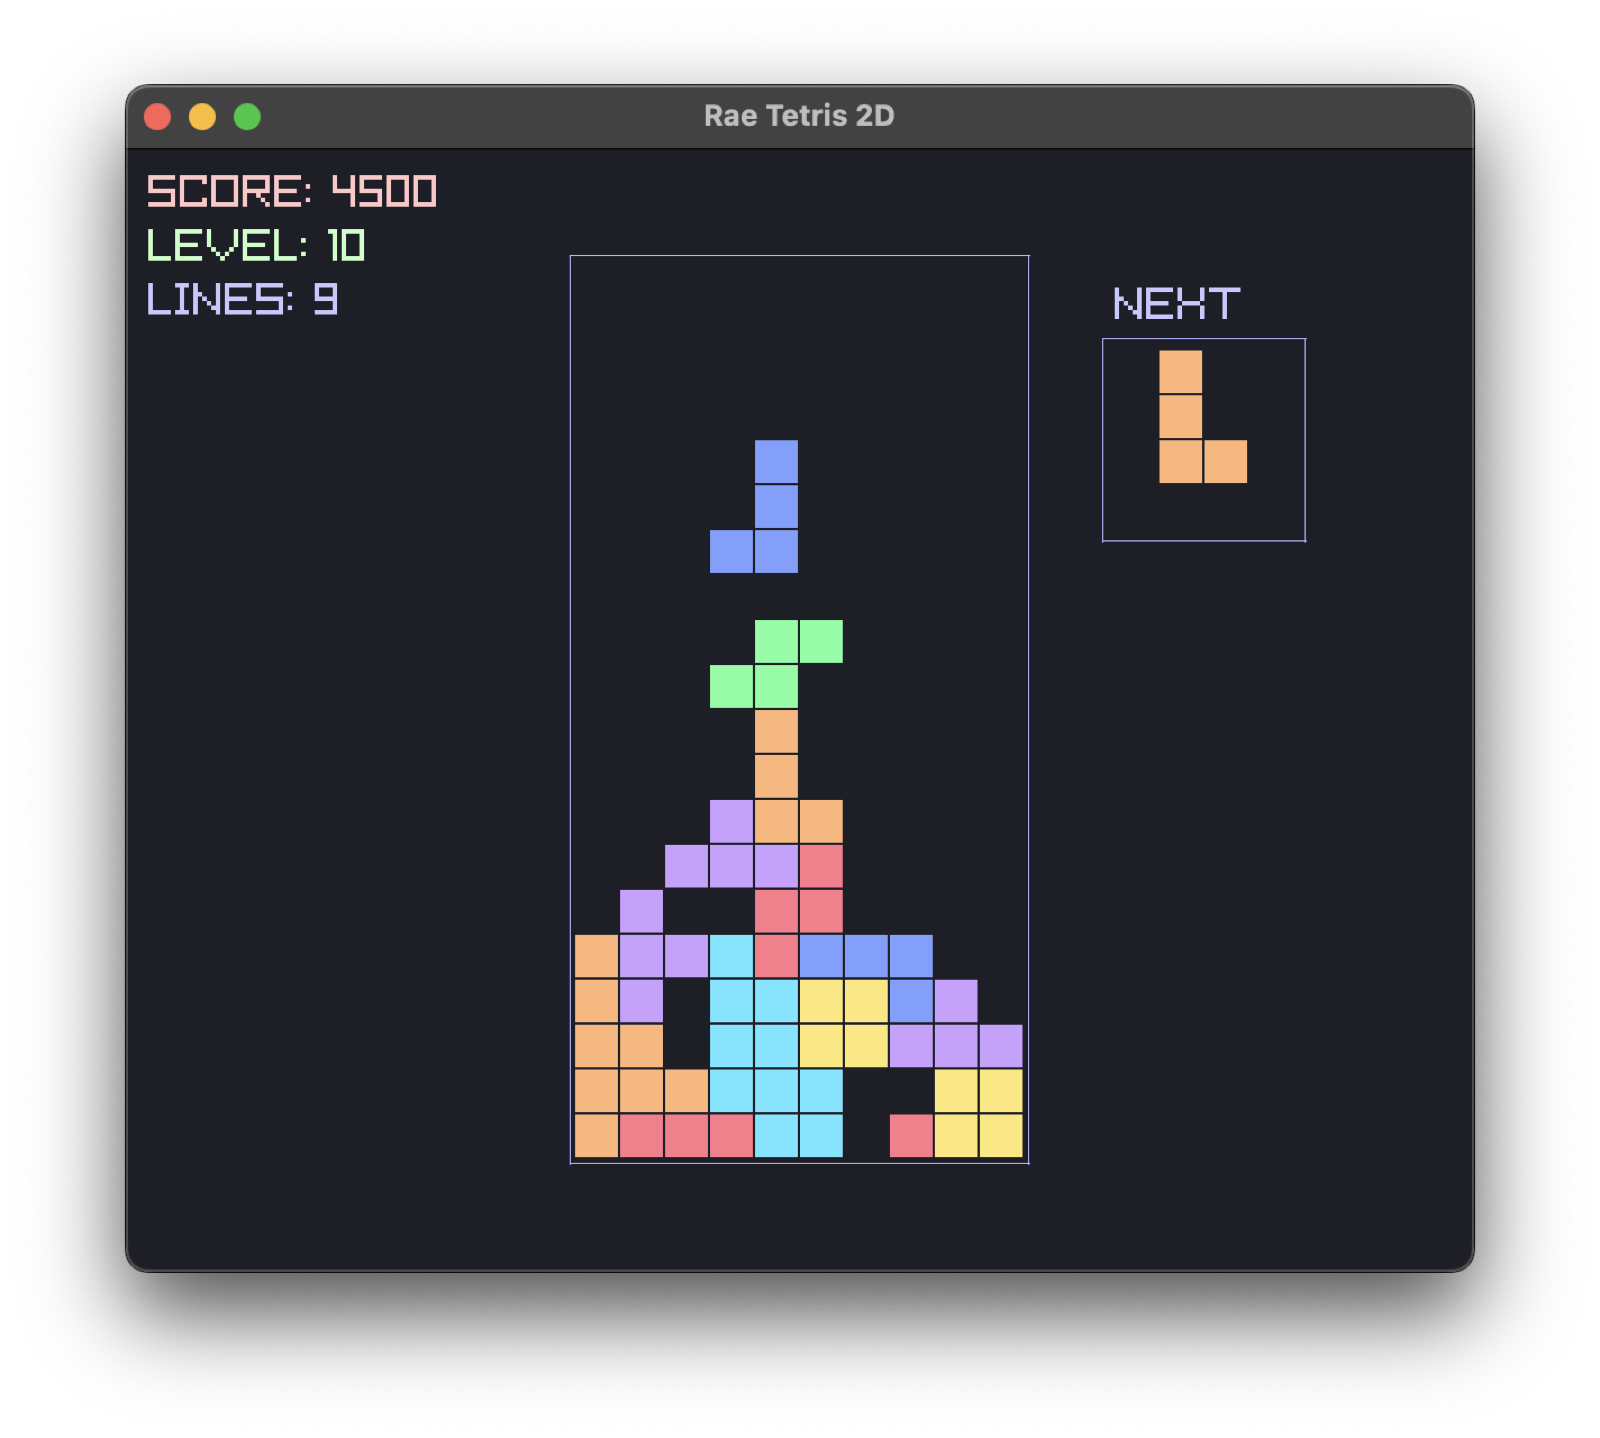
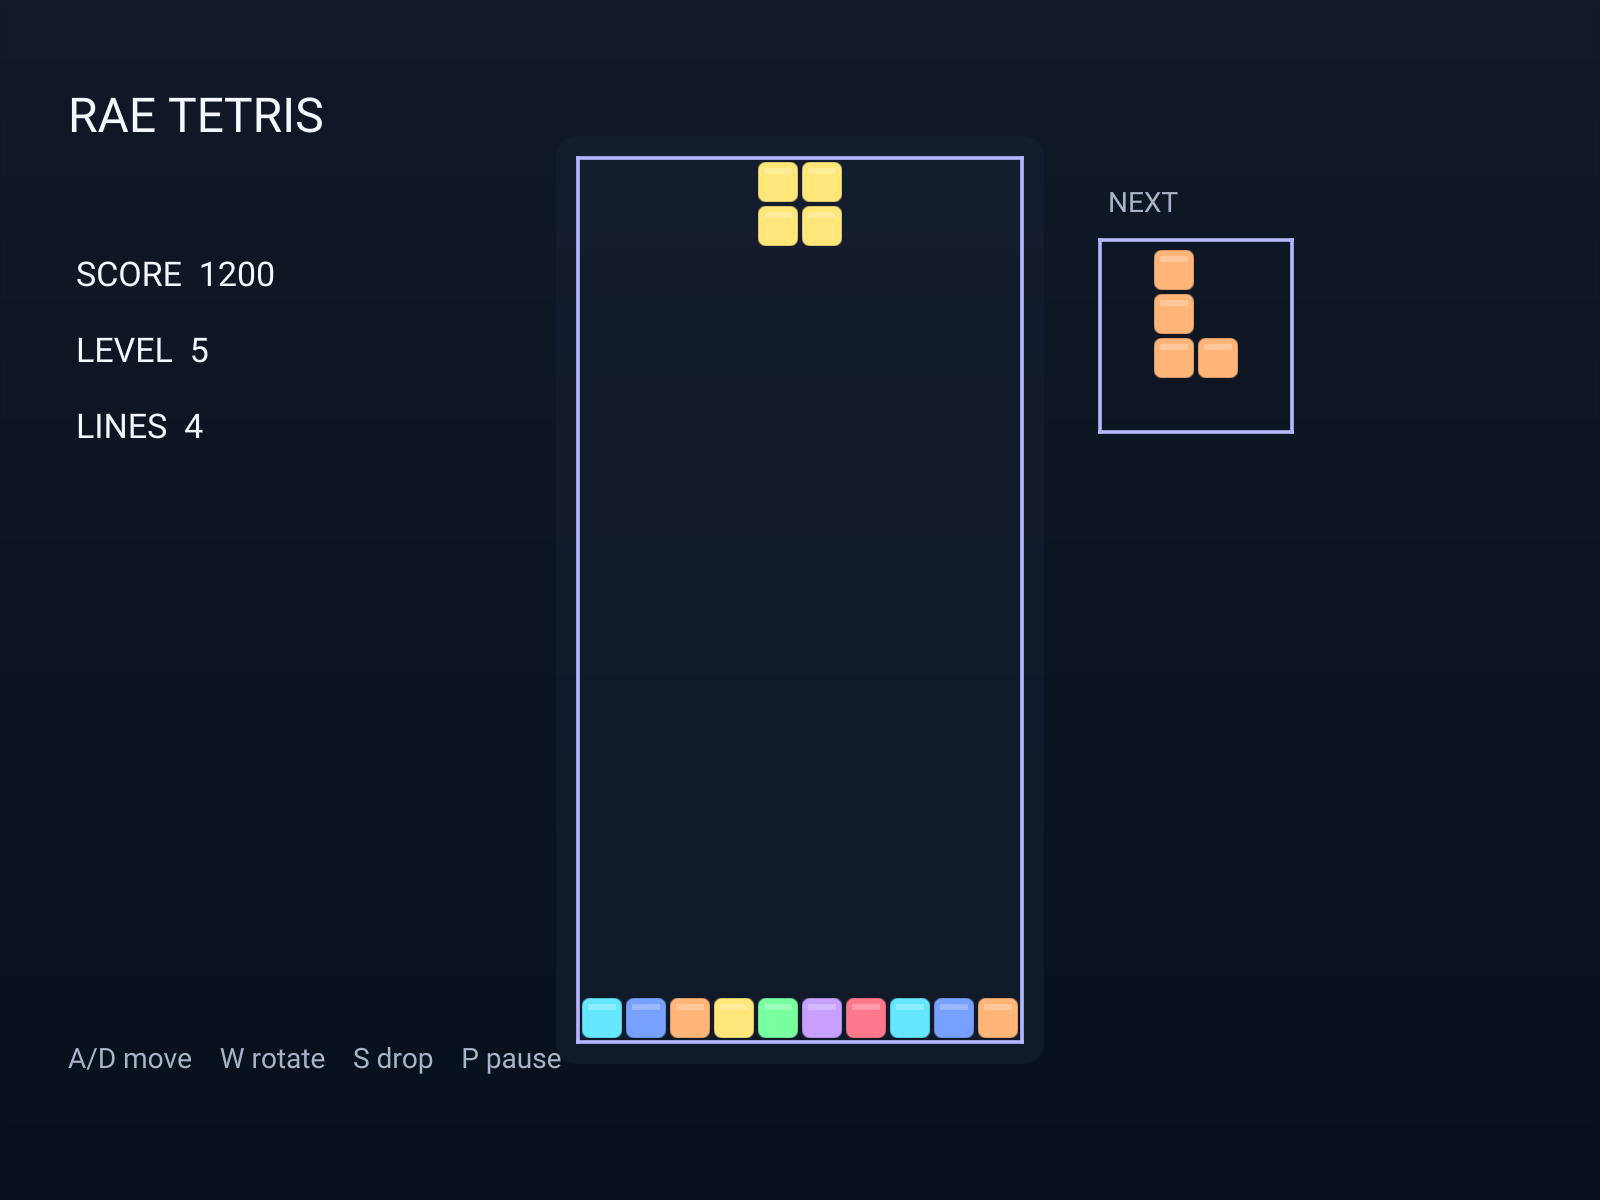
Retire Raylib from active builds

diff --git a/tools/devtools-web/src/server/config.ts b/tools/devtools-web/src/server/config.ts
@@ -73,13 +73,9 @@ const DEFAULT_TARGETS: TargetConfig[] = [
     buildCommand: "cd compiler && make",
     cleanCommand: "cd compiler && make clean",
     rebuildCommand: "cd compiler && make clean && make",
-    // Link raylib STATICALLY (libraylib.a, not -lraylib) so the
-    // bundled GLFW symbols (glfwWaitEventsTimeout etc., used by the
-    // event-driven UI loop in lib/ui/event_loop.rae) are present in
-    // the final binary. The shared library libraylib.dylib does NOT
-    // export those symbols. Same fix as compiler/Makefile and
-    // compiler/src/main.c.
-    exampleRunCommand: "./compiler/bin/rae build --target compiled --project {{ENTRY_DIR}} --emit-c --out {{OUTDIR}}/out.c {{ENTRY}} && gcc {{OPT}} -o {{OUTDIR}}/app {{OUTDIR}}/out.c {{OUTDIR}}/rae_runtime.c third_party/raylib/rae_raylib.c -I{{OUTDIR}} -Ithird_party/raylib -I/opt/homebrew/include /opt/homebrew/lib/libraylib.a -framework CoreVideo -framework IOKit -framework Cocoa -framework OpenGL && {{OUTDIR}}/app",
+    // The compiler discovers SDL3/WebGPU imports and links only the backends
+    // the example uses. Raylib is legacy-only and is not part of this path.
+    exampleRunCommand: "./compiler/bin/rae run --target compiled --profile release --project {{ENTRY_DIR}} {{ENTRY}}",
     // `rae watch --target compiled`: supervisor builds each
     // rebuild into a fresh `.rae/build/build-N/` directory, swaps
     // binaries on successful build, falls back to the previous
@@ -112,8 +108,8 @@ const DEFAULT_TARGETS: TargetConfig[] = [
     // Build the example to .wasm via the C backend + wasi-sdk, then run it
     // under a Node WASI shim that echoes the program's stdout (text examples)
     // or summarizes binary output (e.g. the raytracer framebuffer). Needs
-    // wasi-sdk (WASI_SDK, default ~/.local/wasi-sdk). Only headless examples
-    // work — raylib/windowed examples can't link to wasm.
+    // wasi-sdk (WASI_SDK, default ~/.local/wasi-sdk). Browser WebGPU examples
+    // use the separate Emscripten path rather than this headless WASI target.
     exampleRunCommand: "compiler/tools/wasm_build.sh {{ENTRY_DIR}} {{ENTRY}} {{OUTDIR}}/app.wasm && node compiler/tools/wasm_run.mjs --echo {{OUTDIR}}/app.wasm",
     exampleBuildCommand: "compiler/tools/wasm_build.sh {{ENTRY_DIR}} {{ENTRY}} {{OUTDIR}}/app.wasm"
   }

diff --git a/compiler/src/main.c b/compiler/src/main.c
@@ -2614,9 +2614,8 @@ static int run_vm_file(const RunOptions* run_opts, const char* project_root) {
 
 // Invoke GCC to link a Rae-generated `.c` (produced by build_c_backend_output)
 // into a runnable binary. Picks up companion `.c` files next to the entry
-// `.rae` (excluding the runtime + previous compiled outputs), and links
-// raylib statically so the GLFW symbols bundled in libraylib.a are
-// resolvable.
+// `.rae` (excluding the runtime + previous compiled outputs). Legacy Raylib
+// is linked only when dependency discovery found an explicit Raylib import.
 //
 // Shared by `rae run --target compiled` and `rae watch`. Returns true on
 // success; on failure, prints to stderr and returns false. The caller owns
@@ -2638,7 +2637,9 @@ static bool gcc_link_c_to_binary(const char* entry_rae_file,
   char runtime_dir[PATH_MAX];
   snprintf(runtime_dir, sizeof(runtime_dir), "%s", RAE_RUNTIME_SOURCE_DIR);
 
-  const char* raylib_define = uses_raylib ? "-DRAE_HAS_RAYLIB" : "";
+  const char* raylib_flags = uses_raylib
+      ? "-DRAE_HAS_RAYLIB /opt/homebrew/lib/libraylib.a -framework CoreVideo -framework IOKit -framework Cocoa -framework OpenGL"
+      : "";
   // SDL3 (lib/sdl3.rae): define the runtime block + link libSDL3 only when the
   // program imports it (brew-installed at /opt/homebrew, not toolchain-bundled).
   const char* sdl3_flags = uses_sdl3 ? "-DRAE_HAS_SDL3 -lSDL3" : "";
@@ -2689,8 +2690,9 @@ static bool gcc_link_c_to_binary(const char* entry_rae_file,
   }
 
   char cmd[PATH_MAX * 4];
-  snprintf(cmd, sizeof(cmd), "gcc -std=c11 %s -w %s %s %s -I%s -I/opt/homebrew/include -L/opt/homebrew/lib /opt/homebrew/lib/libraylib.a -framework CoreVideo -framework IOKit -framework Cocoa -framework OpenGL -framework ImageIO -framework CoreGraphics %s %s/rae_runtime.c%s -o %s",
-           opt_flags, raylib_define, sdl3_flags, wgpu_flags, runtime_dir, c_path, runtime_dir, extra_c_files, out_bin);
+  snprintf(cmd, sizeof(cmd), "gcc -std=c11 %s -w %s %s %s -I%s -I/opt/homebrew/include -L/opt/homebrew/lib -framework Foundation -framework ImageIO -framework CoreGraphics %s %s/rae_runtime.c%s -o %s",
+           opt_flags, raylib_flags, sdl3_flags, wgpu_flags, runtime_dir,
+           c_path, runtime_dir, extra_c_files, out_bin);
 
   if (system(cmd) != 0) {
     fprintf(stderr, "error: failed to compile C output\n");
@@ -3887,12 +3889,9 @@ static const char* RAE_INIT_TEMPLATE_MAIN_RAE =
   "  log(\"Hello, Rae!\")\n"
   "}\n";
 
-// Tabs in the recipe lines below are real \t — required by make.
-// The raylib link line is the same one royalblush-rae uses; it
-// works for raylib apps AND for plain-stdlib apps (rae_runtime.c
-// references Cocoa for App-Nap opt-out, so even a hello-world
-// would otherwise miss -framework Cocoa). Linking raylib too is
-// cheap: an unused libraylib.a costs nothing at runtime.
+// Tabs in the recipe lines below are real \t — required by make. The generated
+// starter is dependency-light; apps add SDL3/WebGPU flags when they import
+// those platform modules.
 static const char* RAE_INIT_TEMPLATE_MAKEFILE =
   "# Generated by `rae init`. Set RAE_REPO if the Rae monorepo lives\n"
   "# somewhere other than ../rae, e.g. `make RAE_REPO=/abs/path`.\n"
@@ -3910,11 +3909,9 @@ static const char* RAE_INIT_TEMPLATE_MAKEFILE =
   "RUNTIME_C:= $(BUILD)/rae_runtime.c\n"
   "BIN      := $(BUILD)/app\n"
   "\n"
-  "RAYLIB_A := /opt/homebrew/lib/libraylib.a\n"
-  "CFLAGS   := -O2 -I/opt/homebrew/include -DRAE_HAS_RAYLIB\n"
-  "LDFLAGS  := -L/opt/homebrew/lib $(RAYLIB_A) \\\n"
-  "            -framework CoreVideo -framework IOKit \\\n"
-  "            -framework Cocoa -framework OpenGL\n"
+  "CFLAGS   := -O2 -I/opt/homebrew/include\n"
+  "LDFLAGS  := -L/opt/homebrew/lib -framework Foundation \\\n"
+  "            -framework ImageIO -framework CoreGraphics\n"
   "\n"
   ".PHONY: help build run watch clean lib-link\n"
   "\n"

diff --git a/compiler/src/vm_raylib_stub.c b/compiler/src/vm_raylib_stub.c
@@ -1,0 +1,8 @@
+#include "vm_raylib.h"
+
+/* Live is deprecated; keep default native registration structurally intact
+ * without making the compiler binary depend on the legacy Raylib SDK. */
+bool vm_registry_register_raylib(VmRegistry* registry) {
+  (void)registry;
+  return true;
+}

diff --git a/QUEUE.md b/QUEUE.md
@@ -320,7 +320,7 @@
 - [ ] #417 FLAKY TEST 432_mobile_ui_leak_regression: it compares RSS growth over 5000 iterations against a flat 3 MB threshold, and lands close enough to it to fail intermittently — measured 2 passes and 1 failure in three consecutive clean runs, failing values 3872 KB and 4544 KB against passes under 3000 KB. It imports only core/string/sys, so this is allocator variance rather than a real regression, but a leak test that cries wolf one run in three trains everyone to ignore it. Options: measure the PLATEAU (growth between iteration 2500 and 5000, which is flat for allocator slack and linear for a real leak) instead of total growth from baseline, or take the median of a few samples. Prefer the plateau — it distinguishes the two shapes rather than just widening the tolerance.
 - [ ] #418 SKY FOR THE FORWARD RENDERER, so 111_metaballs_forward and 112_metaballs_deferred differ only in lighting path. Today the sky is deferred-only: the ~111 lines of sky WGSL (preetham/stylised/hosekChannel/skyHosek/skyColor) live inside the deferred LIGHTING pass and read seven fields off its LightU uniform — sunDir, sunColor, clearColor, skyParams, skyZenith, skyHorizon and hosek[9]. The forward path has no fullscreen pass at all, so this is a NEW pass, not a wiring change: extract that shader into a string both runtimes include, add a forward sky pass (pipeline + its own uniform + a fullscreen draw before the scene), and give Renderer3d a sky field with a tag the app dispatches, mirroring DeferredRenderer. THE RISK IS THE UNIFORM PACKING, which is #416's territory: LightU already carries viewProj purely so the sky fields land at the right offsets, and getting it wrong is silent — a sky coloured by whatever was in the matrix. Verify by byte-comparing a deferred screenshot before and after the extraction, so a shared shader cannot quietly change the path that already works.
 <!-- SUMU_QUEUE_END -->
-- [ ] #433 Investigate 491_wait_events_smoke: raylib InitWindow SIGSEGVs in rlglInit/rlLoadTexture on this machine (fails on a clean tree too, so it predates the sky work)
+- [ ] #433 SUPERSEDED by #483: `491_wait_events_smoke` exercised the retired Raylib path; archived Raylib code is non-gating and the default compiler no longer links it, so the initialization crash is intentionally not being debugged
 - [ ] #434 114's animTime accumulates unbounded in f32 and never wraps; after a long suspend (now integrated in full, since the dt clamp is gone) its ULP can exceed a frame's increment and the animation freezes
 - [x] #435 Browser WASM: the settings dialog fails to mount in 111 and 112 (log says "settings dialog failed to mount", panel renders empty); same in both, so it is a shared browser-path limitation, not renderer-specific
 - [ ] #436 Offer browser WASM for the 8 gpu2d/gpu3d examples that lack wasmWebApp (101-104, 106, 110, 113, 114): each needs the flag plus display dims in a pack, and each needs confirming that it actually renders in Chrome first

diff --git a/docs/tech-stack-and-dependencies.md b/docs/tech-stack-and-dependencies.md
@@ -258,21 +258,24 @@ is reversible (and you could later support both).
 
 ---
 
-## raylib: deprecation plan
+## Raylib: legacy-only compatibility
 
-**We probably want to remove raylib.** It is an OpenGL/GLFW convenience layer; it
-gave us fast 2D/3D + windowing + simple shaders + basic audio, and it compiles to
-web via Emscripten (WebGL) — but:
+Raylib is retired from Rae's active architecture. It was an effective early
+OpenGL/GLFW convenience layer for Pong, Tetris, and renderer experiments, but:
 
 - No GPU **compute** on macOS (OpenGL capped at 4.1) → blocks the GPU raytracer.
 - OpenGL is legacy / deprecated on Apple; the future is WebGPU/Metal/Vulkan.
 - It overlaps with the layers we now want to own (Platform, Render, 2D, Audio).
 
-Plan: build the Rae Platform/Render/2D/Audio layers, migrate the examples off
-raylib, then drop the dependency. We **may keep a single raylib example** in the
-tree as a historical/minimal reference **only if** it stays cheap to keep
-building (no special-casing the build, no divergent toolchain). If keeping it
-adds friction, remove it entirely — minimalism wins.
+Active 2D examples use GPU2D with SDL3 platform/input. Active 3D examples use
+the deferred WebGPU renderer; the forward renderer remains a reference path.
+UI is authored as ECS-backed `.raescene` data.
+
+Historical Raylib examples remain intact under `examples/legacy/raylib/` and
+are excluded from Devtools and default smoke tests. The compiler does not link
+Raylib by default. `make ENABLE_LEGACY_RAYLIB=1` in `compiler/` enables the
+deprecated VM bindings for explicit archaeology, and Compiled dependency
+discovery links Raylib only when a project deliberately imports `raylib`.
 
 ---
 

diff --git a/examples/91_pong_implicit/README.md b/examples/91_pong_implicit/README.md
@@ -1,19 +1,18 @@
-# Advanced Pong (ECS Style)
+# Pong (Data-Oriented GPU2D)
 
-This example demonstrates an Entity-Component-System (ECS) style architecture in Rae.
+This example demonstrates a small data-oriented game using GPU2D rendering,
+SDL3 input, and an ECS-backed `.raescene` overlay.
 
 ## Components
-- **Transform**: Stores position (x, y, z).
+- **PaddleTransform**: Stores 2D positions.
 - **Velocity**: Stores movement vector (dx, dy).
-- **Paddle**: Marker component for paddles.
-- **Ball**: Marker component for the ball.
 
 ## Systems
-- **InputSystem**: Handles player input and updates paddle velocity.
-- **MovementSystem**: Updates positions based on velocity.
-- **CollisionSystem**: Handles ball bouncing and paddle collisions.
-- **RenderSystem**: Draws all entities based on their Transform.
+- **paddleInputSystem** reads SDL3 keyboard state.
+- **movementSystem** updates positions using delta time.
+- **bounceSystem** and **paddleCollisionSystem** implement gameplay.
+- GPU2D draws the play field while `.raescene` owns score/help text.
 
 ## Architecture
-Entities are currently handled implicitly via parallel lists of components.
-A more robust `Entity` manager can be built as the language matures.
+The game stays intentionally small: ordinary component structs and systems are
+enough for two paddles and one ball, while the UI uses Rae's real ECS.

diff --git a/examples/04_random/README.md b/examples/04_random/README.md
@@ -1,8 +1,6 @@
-# Random Advanced (Visual)
+# Deterministic Random Values
 
-A visual demonstration of the `math` random functions combined with `raylib`.
+A console demonstration of Rae's `math` random functions with a fixed seed.
 
-## Features:
-- Draws random colored circles at random positions.
-- Shows usage of `random()` for scaling and `randomInt()` for color components.
-- Press **Space** to clear the screen.
+It prints reproducible integer dice rolls and floating-point values, making the
+example useful in automated runs without introducing a graphics dependency.

diff --git a/README.md b/README.md
@@ -344,7 +344,7 @@ also run in an embedded WebGPU canvas.
 |---|---|
 | `spec/rae.md` | the language spec |
 | `docs/` | 72 design notes, including the ownership model and the renderer architecture |
-| `examples/` | 67 programs, from hello world up |
+| `examples/` | 63 active programs, from hello world up; retired integrations live under `examples/legacy/` |
 
 ## License
 
